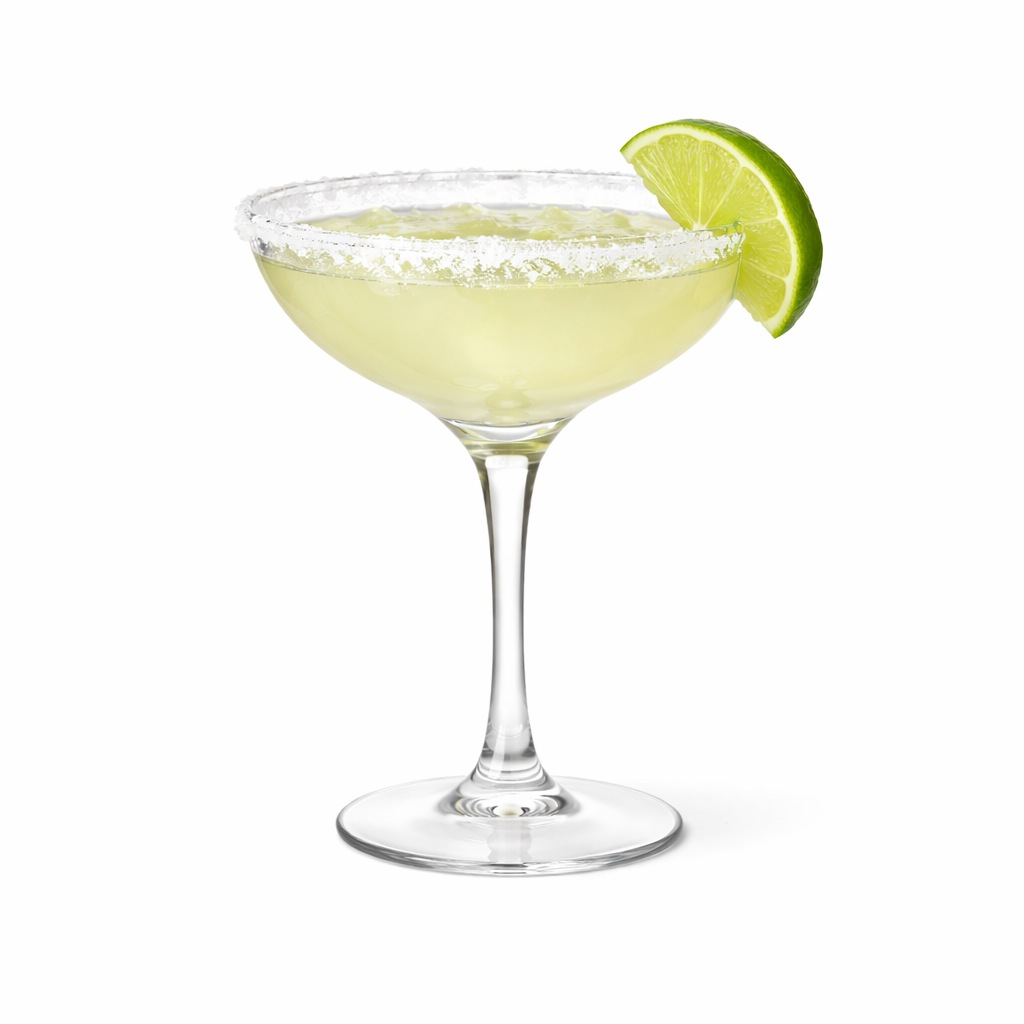
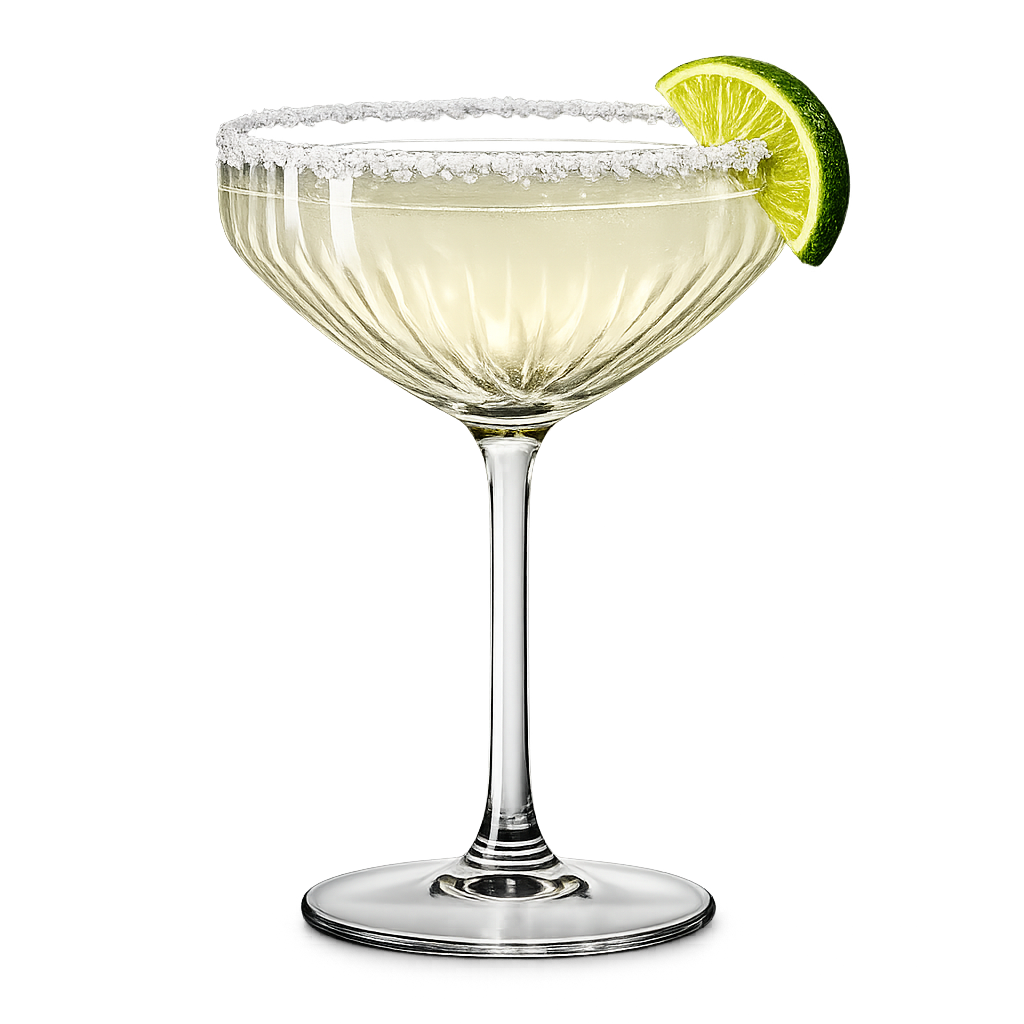
Use existing optimized photo webp for Margarita and Moscow Mule

Changed region(s): [[0.1875, 0.0312, 0.8438, 0.9688]]

diff --git a/src/lib/cocktailImages.ts b/src/lib/cocktailImages.ts
@@ -5,9 +5,12 @@ function hasFileExtension(value: string) {
   return /\.[a-z0-9]{2,5}$/i.test(value);
 }
 
-// For now we intentionally prefer the SVG icon set (fast, consistent, and transparent).
-// If/when you upload transparent photo PNGs for all cocktails, we can re-enable photo overrides.
-const PHOTO_OVERRIDES_BY_SLUG: Record<string, "png" | "jpg" | "webp"> = {};
+// Photo overrides (used when no explicit `image_url` is provided, or when Supabase still points to an svg).
+// For now we only enable the cocktails we have fast, optimized `.webp` assets for.
+const PHOTO_OVERRIDES_BY_SLUG: Record<string, "png" | "jpg" | "webp"> = {
+  margarita: "webp",
+  "moscow-mule": "webp",
+};
 
 export function normalizeCocktailDisplayName(name: string) {
   const raw = String(name || "").trim();
@@ -60,10 +63,7 @@ export function resolveCocktailImageSrc(
     const preferred = PHOTO_OVERRIDES_BY_SLUG[slug];
     // If we have a photo override for this cocktail, prefer it even if the DB still points at an svg.
     if (preferred && (!ext || ext === ".svg")) return `/cocktails/${slug}.${preferred}`;
-
-    // Otherwise always prefer the SVG icon, even if the DB points to a .png/.webp.
-    // (Icons are transparent and consistent across the set.)
-    return `/cocktails/${slug}.svg`;
+    return ext ? `/cocktails/${slug}${ext}` : `/cocktails/${slug}.svg`;
   }
 
   const slug = normalizeImageSlug(slugifyCocktailName(recipeName));
